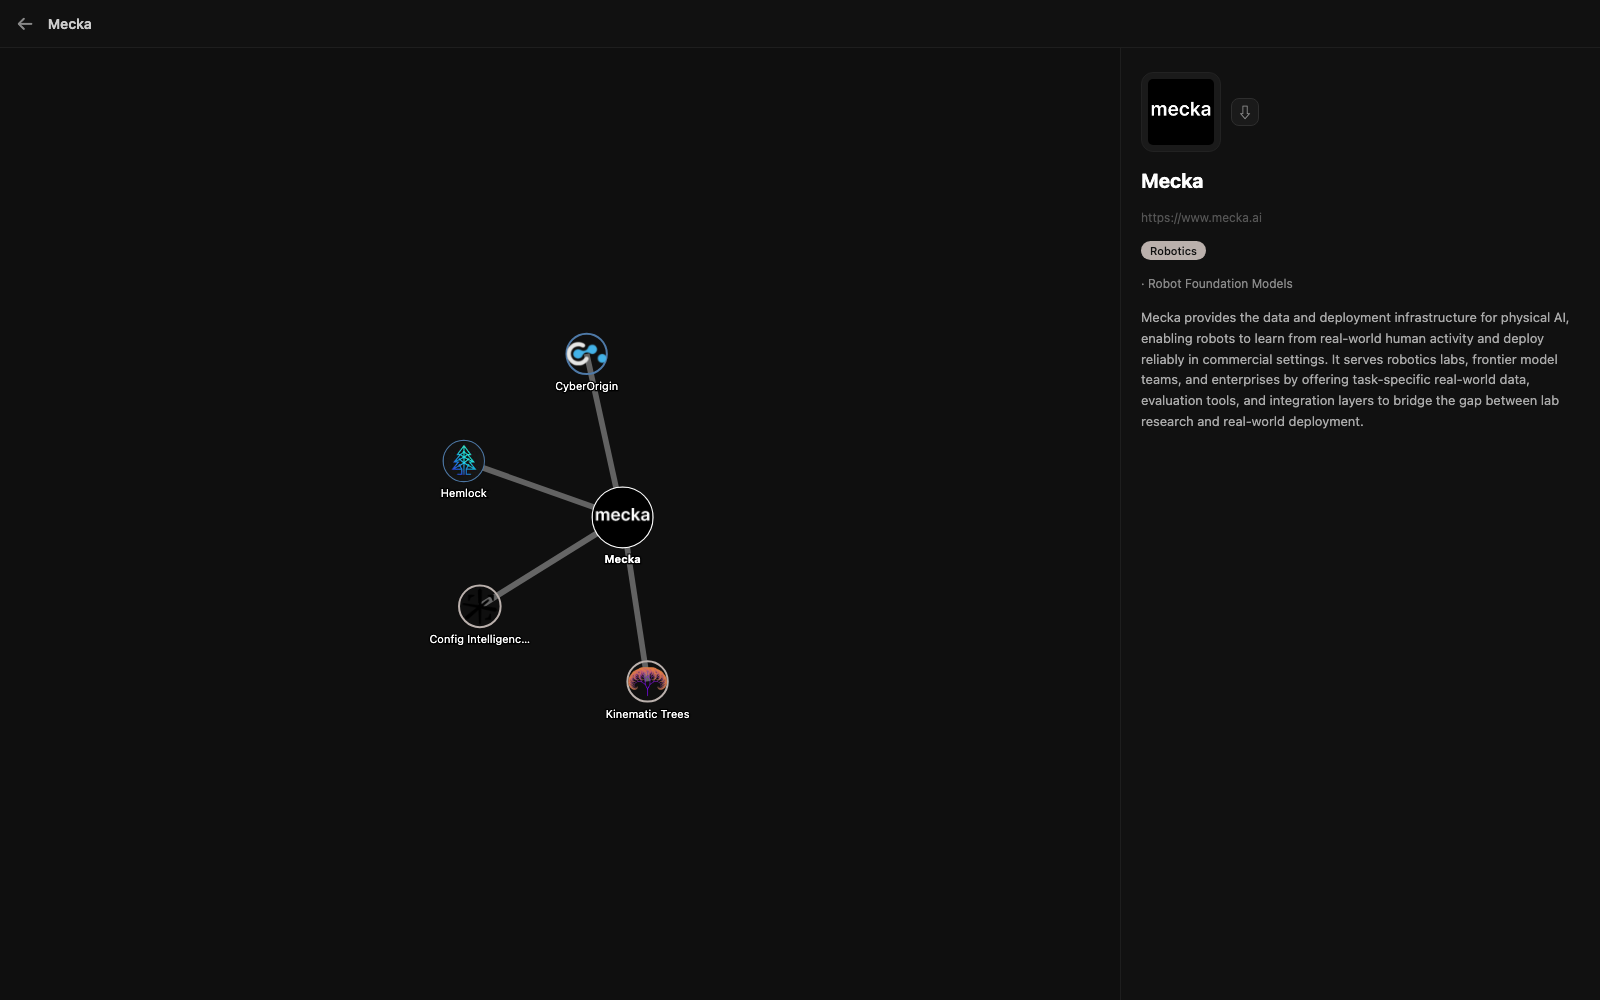
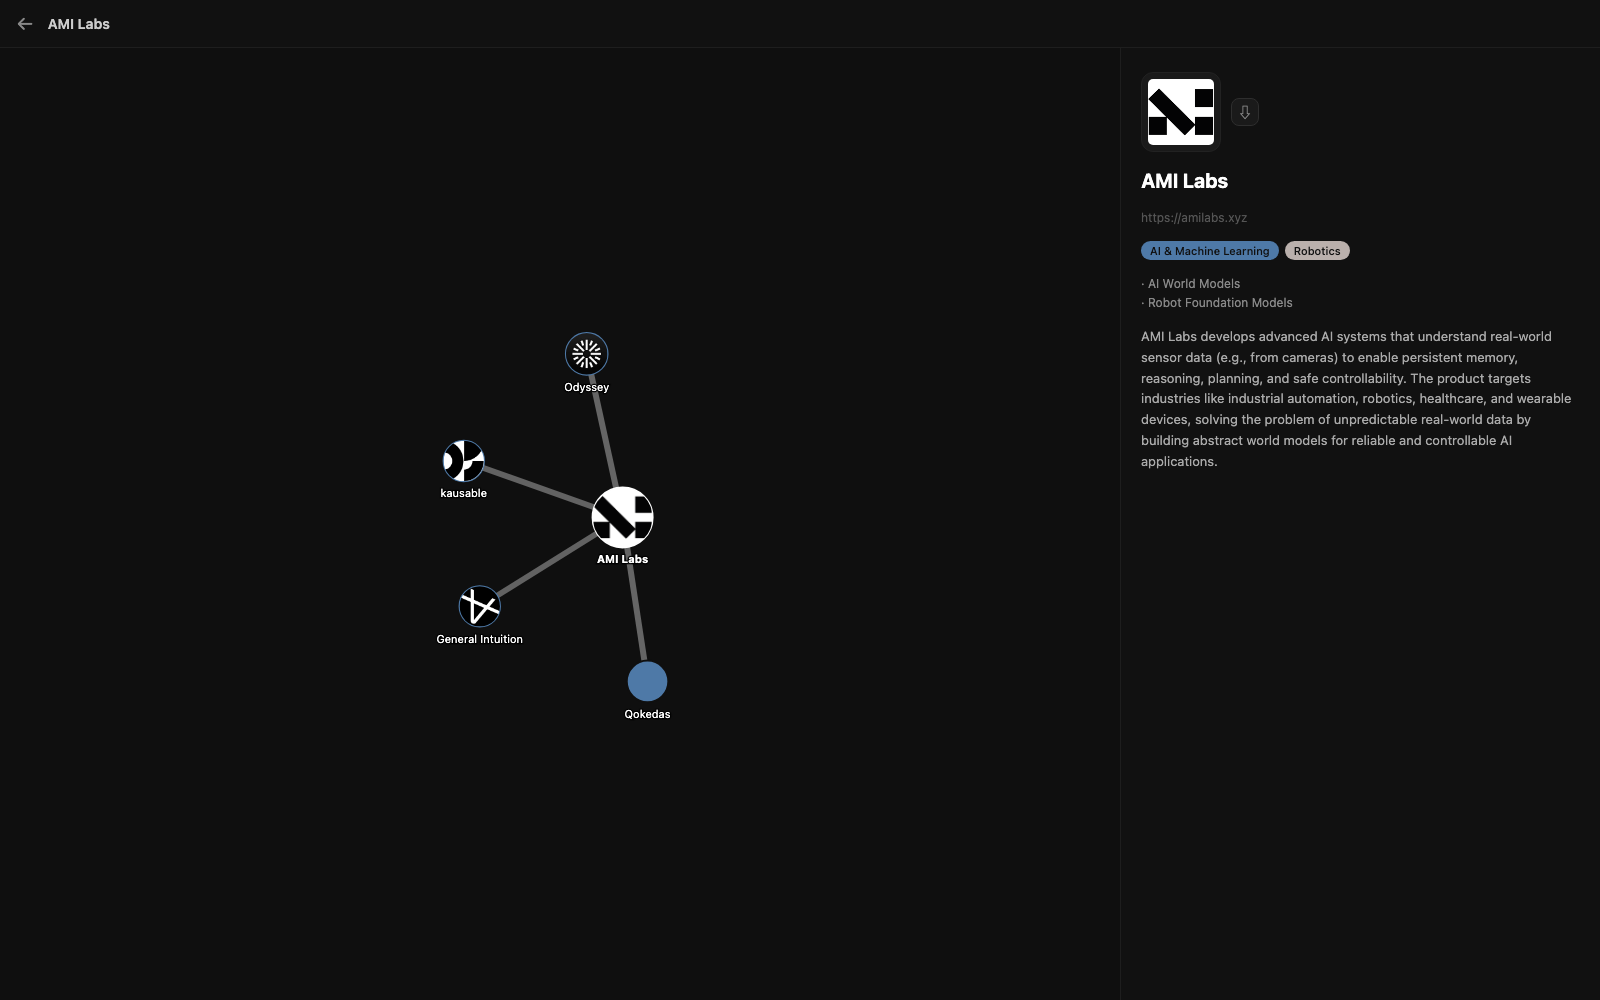
Ajoute la section Why, retire les tirets longs, screenshot AMI Labs
- Nouvelle section "Why" expliquant la motivation du projet
- Tirets longs remplacés par des formulations naturelles
- Screenshot de détail startup remplacé (AMI Labs à la place de Mecka)

diff --git a/README.md b/README.md
@@ -2,13 +2,17 @@
 
 A pipeline that scrapes startup websites, classifies them into a sector/subsector taxonomy with an LLM, and automatically detects competitor relationships, visualized as an interactive graph.
 
+## Why
+
+Built out of frustration with how competitor-mapping is handled in existing tools like Pitchbook or Dealroom: competitors are usually static, manually-tagged lists rather than a living graph that updates as new companies enter the market. This project explores whether an LLM-driven classification and scoring pipeline can maintain that graph automatically.
+
 ## Screenshots
 
 **Competitor graph**: every startup in the database, linked to its closest competitors:
 
 ![Graph overview](docs/screenshots/graph-overview.png)
 
-**Startup detail**: profile, taxonomy, and local competitor neighborhood:
+**Startup detail** (AMI Labs): profile, taxonomy, and local competitor neighborhood:
 
 ![Startup detail](docs/screenshots/startup-detail.png)
 
